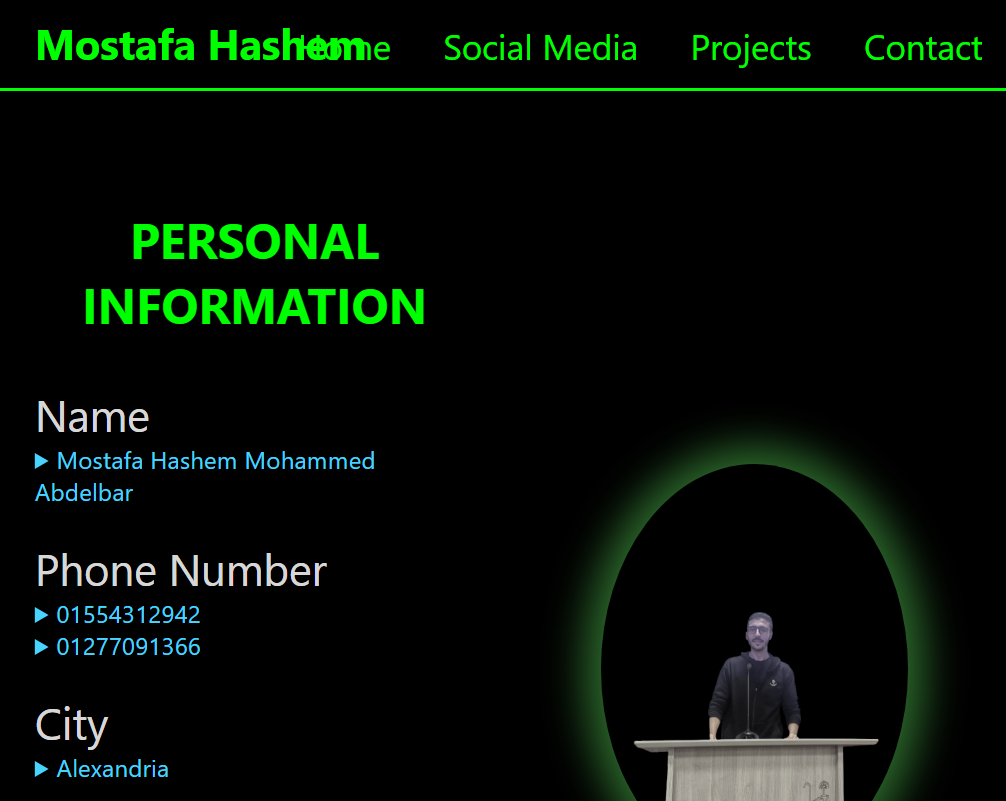
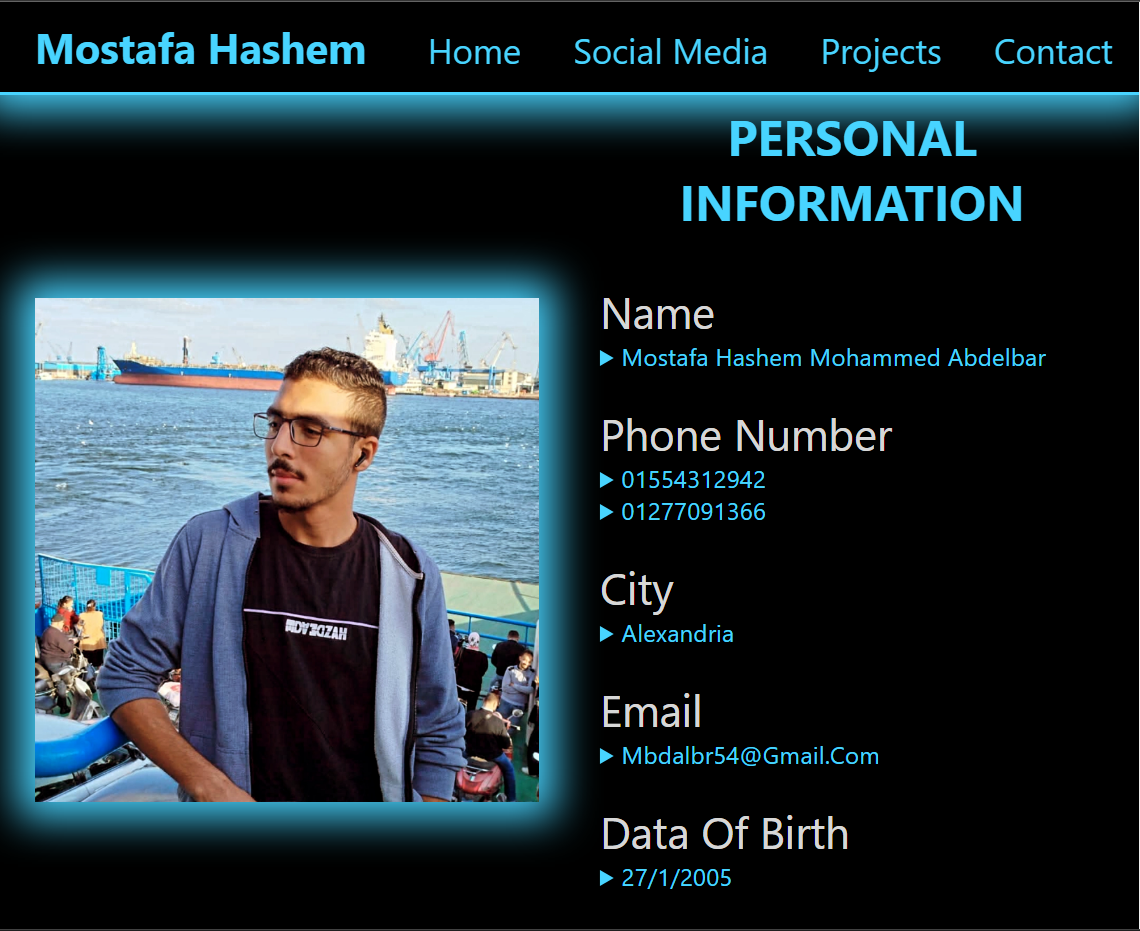
Add files via upload

diff --git a/style2.css b/style2.css
@@ -2,7 +2,7 @@
     -webkit-box-sizing: border-box;
     -moz-box-sizing: border-box;
     box-sizing: border-box;
-        
+    /* overflow: ; */
     /* دى ثبتها فى كل الصفحات */
 }
 
@@ -15,20 +15,25 @@ body {
     background-color: black;
     color: white;
     text-transform: capitalize;
-    color: #00ff00;
+    color: #48d4ff;
     height: 1000px;
     font-size: 16px;
-
 }
 
 header {
+    position: fixed;
+    top: 0;
+    width: 100%;
+    background-color: black;
+    z-index: 10000000;
     display: flex;
-    color: #00ff00;
+    color: #48d4ff;
     justify-content: space-between;
     padding: 10px 20px;
     align-items: center;
-    border-bottom: 2px solid #00ff00;
+    border-bottom: 2px solid #48d4ff;
     background-color: black;
+    box-shadow: 0px 0px 23px 10px #48d4ff;
 }
 
 nav ul {
@@ -52,6 +57,14 @@ nav ul {
     color: red;
 }
 
+.ul li a:hover {
+    transform: scale(1);
+    color: red;
+    list-style: s;
+    text-decoration: underline;
+}
+
+
 
 .mostafa {
     font-size: 24px;
@@ -68,7 +81,7 @@ nav ul {
     grid-template-columns: 1fr 1fr;
     gap: 35px;
     padding: 20px;
-    border-bottom: 2px solid #00ff00;
+    border-bottom: 2px solid #48d4ff;
     justify-content: center;
     align-items: center;
     justify-items: center;
@@ -83,12 +96,12 @@ nav ul {
     align-content: center;
 }
 .img {
-    width: 70%;
-    border-radius: 50%;
-    box-shadow: 0px 0px 23px 10px #017900;
+    width: 100%;
+    /* border-radius: 50%; */
+    box-shadow: 0px 0px 23px 10px #48d4ff;
     transition: 1s;
-    height: 60%;
-    filter: grayscale(50%);
+    height: 100%;
+
     
 }
 
@@ -101,7 +114,7 @@ nav ul {
 .left {
     width: 100%;
     direction: ltr;
-    order: -1;
+    /* order: -1; */
 }
 .left span{
     font-size: 25px;
@@ -132,11 +145,12 @@ p {
 }
 
 .page2{
+    
     display: grid;
     grid-template-columns: repeat(auto-fit, minmax(100px, 1fr));
     gap: 25px;
     padding: 20px;
-    border-bottom: 2px solid #00ff00;
+    border-bottom: 2px solid #48d4ff;
     height: 550px;
     justify-content: center;
     align-items: center;
@@ -159,7 +173,7 @@ p {
     grid-template-columns: repeat(auto-fit,minmax(100px,1fr));
     gap: 25px;
     padding: 20px;
-    border-bottom: 2px solid #00ff00;
+    border-bottom: 2px solid #48d4ff;
 
 }
 
@@ -187,7 +201,7 @@ p {
     width: 100%;
     height: 650px;
     align-content: center;
-    border-bottom: 2px solid #00ff00;
+    border-bottom: 2px solid #48d4ff;
 }
 .page4 p {
     text-align: center;
@@ -221,7 +235,7 @@ p {
 
 }
 .page4 input:hover {
-    background-color: #00ff00;
+    background-color: #48d4ff;
     color: red;
     border-radius: 0%;
     transition: 1s;

diff --git a/index.html b/index.html
@@ -26,7 +26,7 @@
 
     <div class="page1" id="page1">
             <div class="right">
-                <img src="photo/15515115-removebg-preview.png" class="img">
+                <img src="photo/IMG_20241227_102817_861.webp" class="img">
             </div>
 
 
